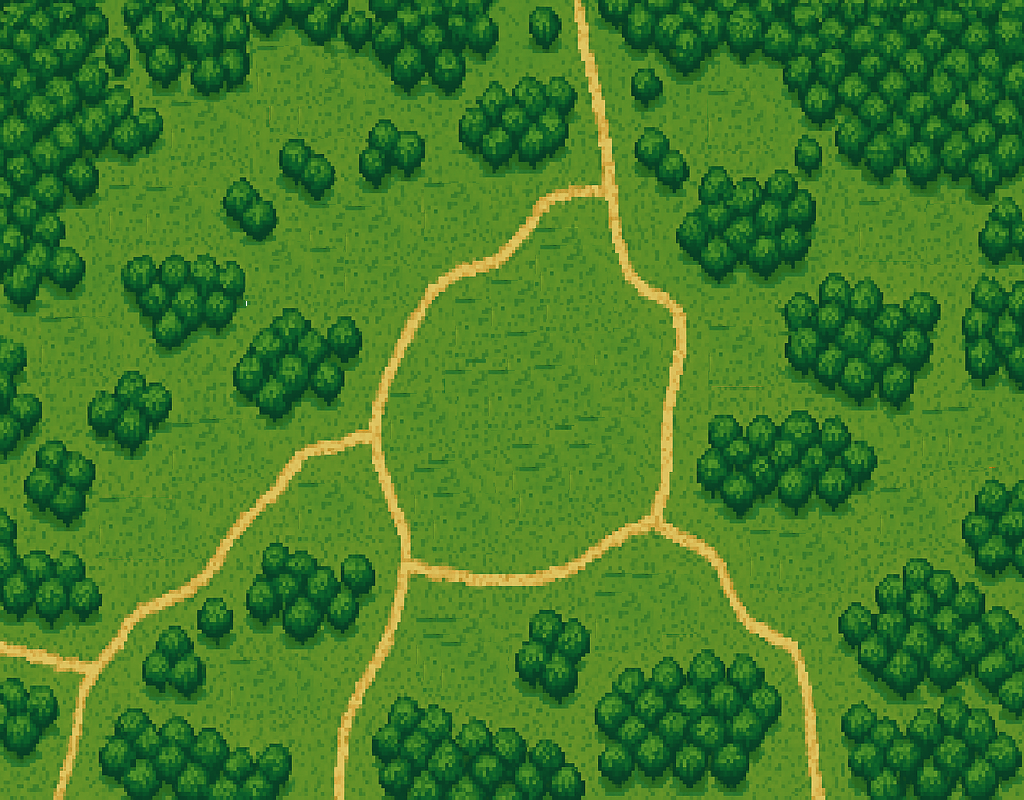
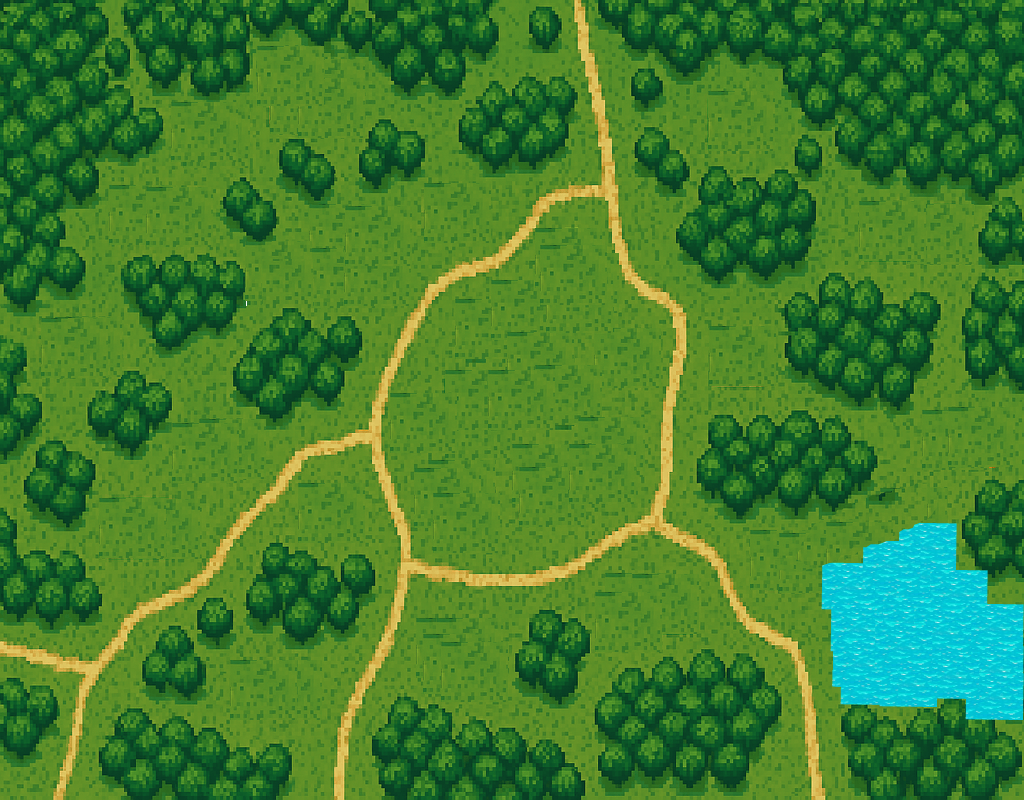
.

Changed region(s): [[0.7812, 0.5938, 1.0, 0.9062]]

diff --git a/src/GameWindow.java b/src/GameWindow.java
@@ -136,25 +136,25 @@ public class GameWindow extends JFrame implements ActionListener {
         map.setBounds(0, 0, SCREEN_WIDTH, SCREEN_HEIGHT);
 
         churchPlace = new JLabel();
-        churchPlace.setBounds(100,100,80,103);
+        churchPlace.setBounds(530,190,80,103);
 
         forgePlace = new JLabel();
-        //forgePlace.setBounds();
+        //forgePlace.setBounds(690,292,);
 
         fishermanPlace = new JLabel();
-        //fishermanPlace.setBounds();
+        fishermanPlace.setBounds(730,520,90,66);
 
         libraryPlace = new JLabel();
-        libraryPlace.setBounds(0,0,100,103);
+        libraryPlace.setBounds(400,600,100,103);
 
         lumberjackPlace = new JLabel();
-        lumberjackPlace.setBounds(0, 0 , 80,65);
+        lumberjackPlace.setBounds(285,51, 80,65);
 
         townHallPlace = new JLabel();
-        //townHallPlace.setBounds();
+        //townHallPlace.setBounds(427,316);
 
         farmPlace = new JLabel();
-        farmPlace.setBounds(200,200,100,78);
+        farmPlace.setBounds(140,450,100,78);
 
         panel = new JPanel();
         panel.setBounds(0, 0, SCREEN_WIDTH, SCREEN_HEIGHT);

diff --git a/src/Fisherman.java b/src/Fisherman.java
@@ -2,9 +2,9 @@ public class Fisherman extends Building {
 
     private String loadFile = "BuildingParams/FishermanParams/Params.txt";
 
-    private String design1 = "BuildingParams/FishermanParams/";
-    private String design2 = "BuildingParams/FishermanParams/";
-    private String desing3 = "BuildingParams/FishermanParams/";
+    private String design1 = "BuildingParams/FishermanParams/FishermanDesign1.png";
+    private String design2 = "BuildingParams/FishermanParams/FishermanDesign2.png";
+    private String desing3 = "BuildingParams/FishermanParams/FishermanDesign3.png";
 
     /**
      * Constructs a building and initializes its state by loading its saved data
